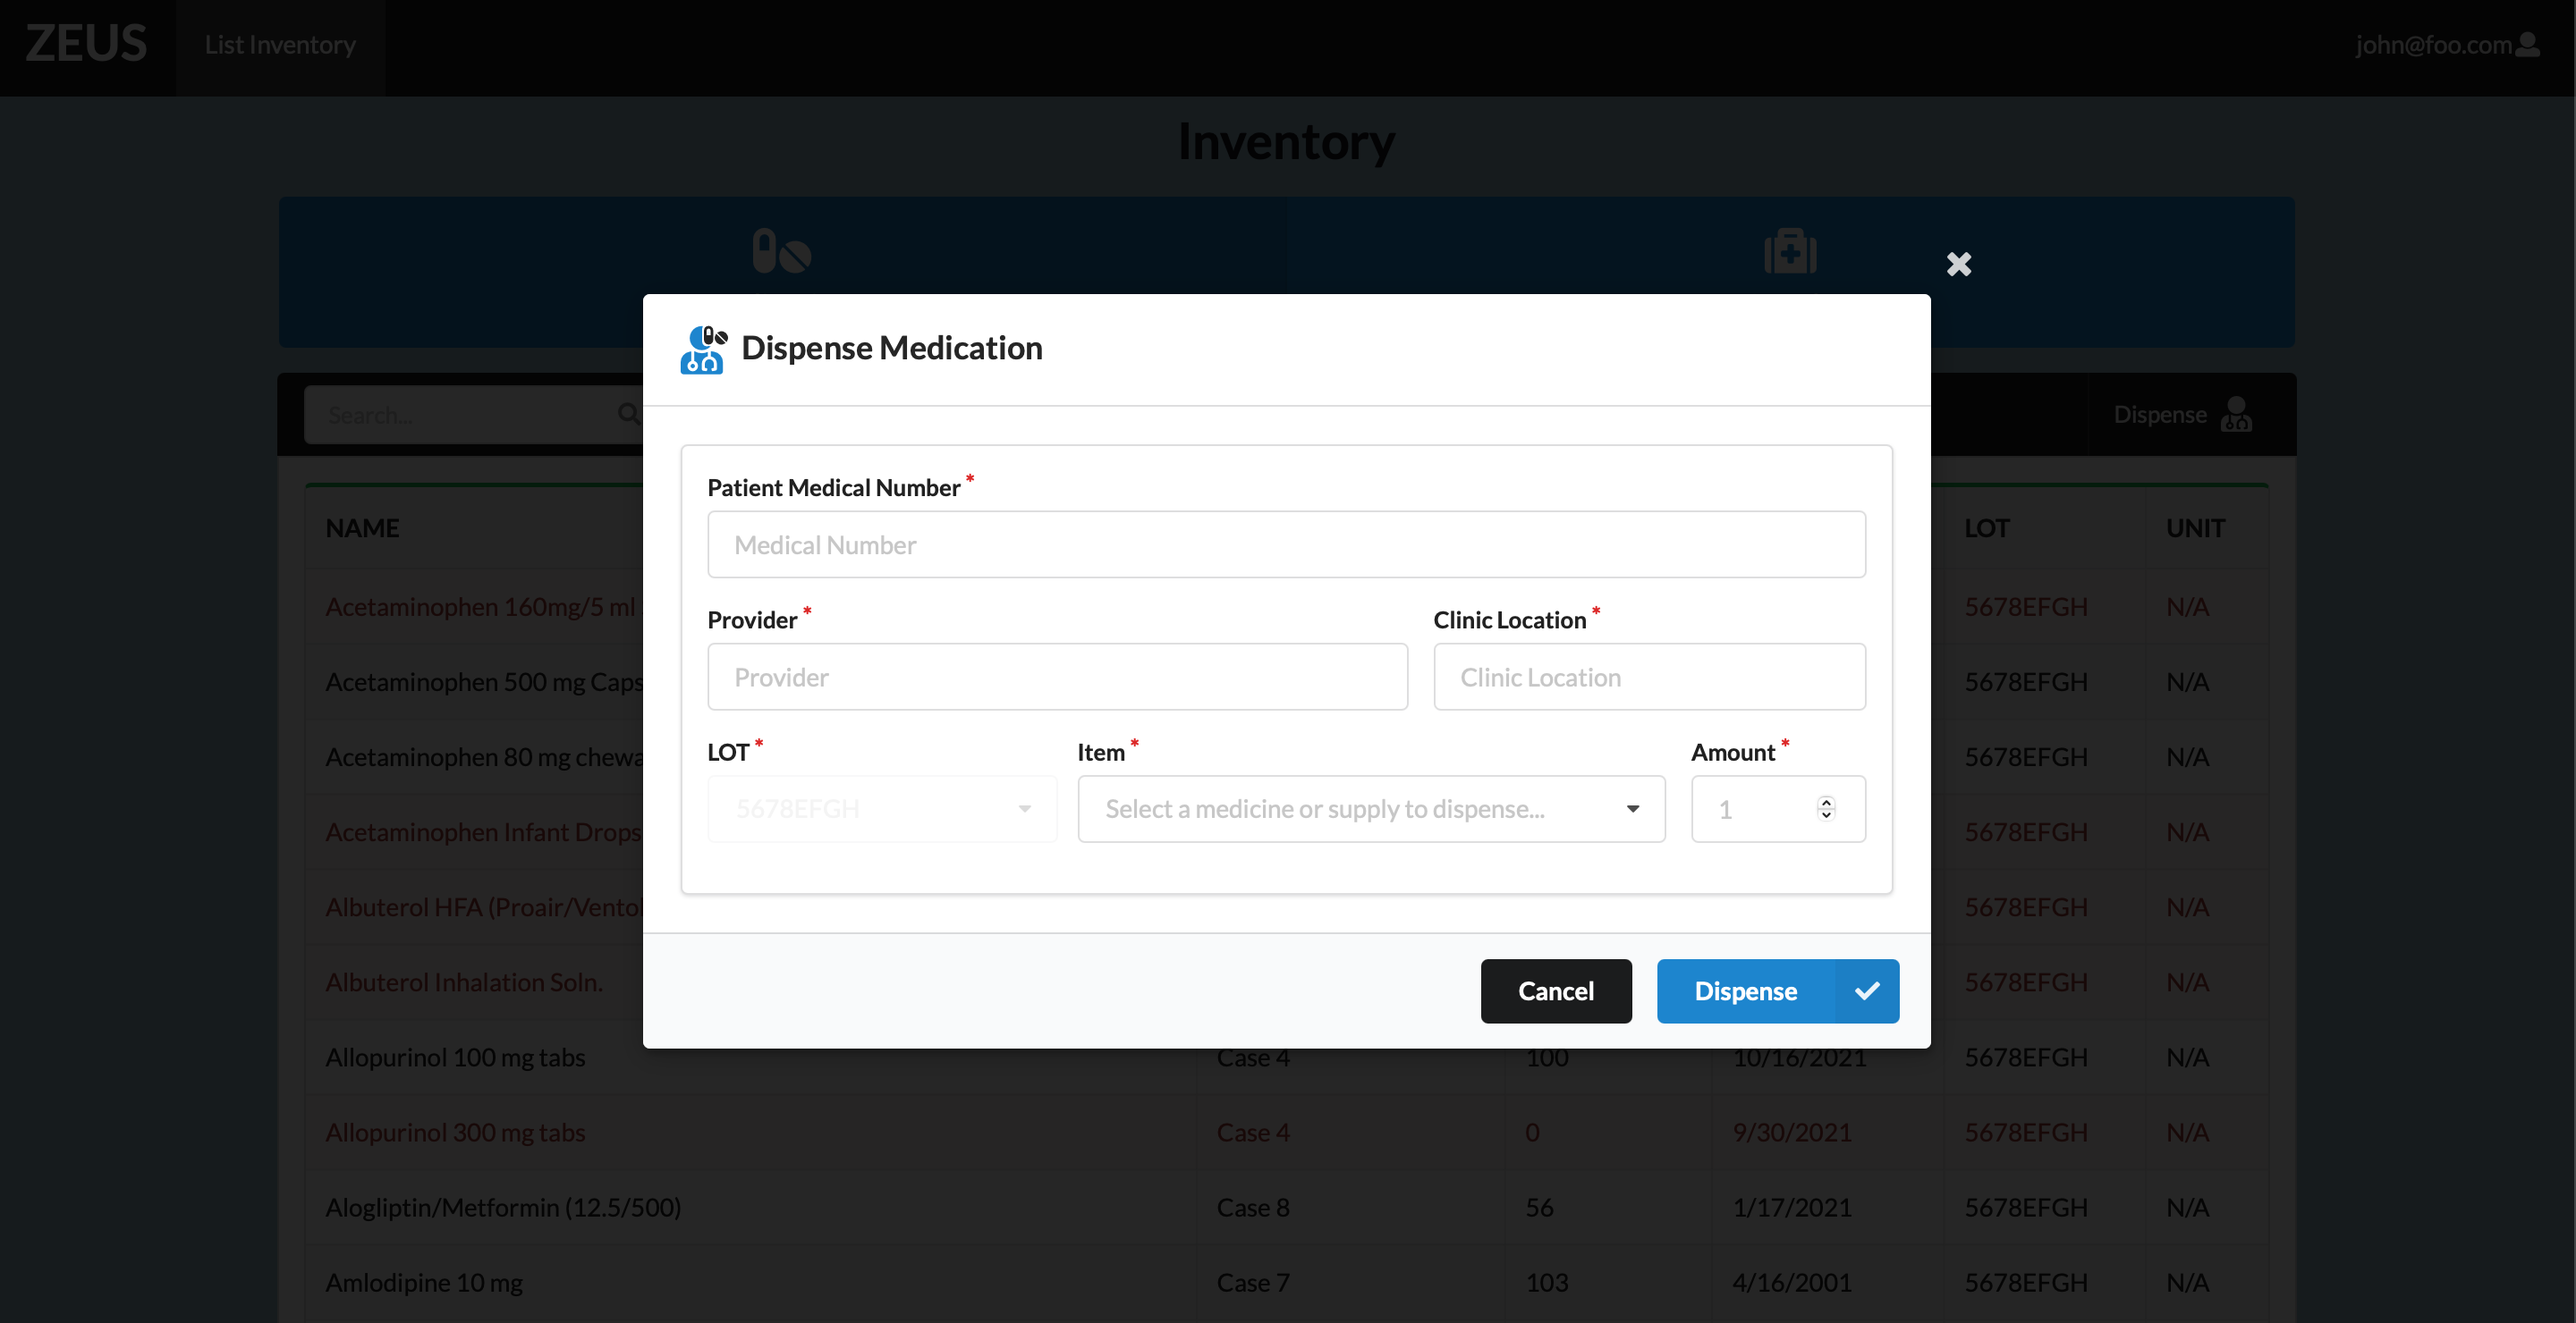
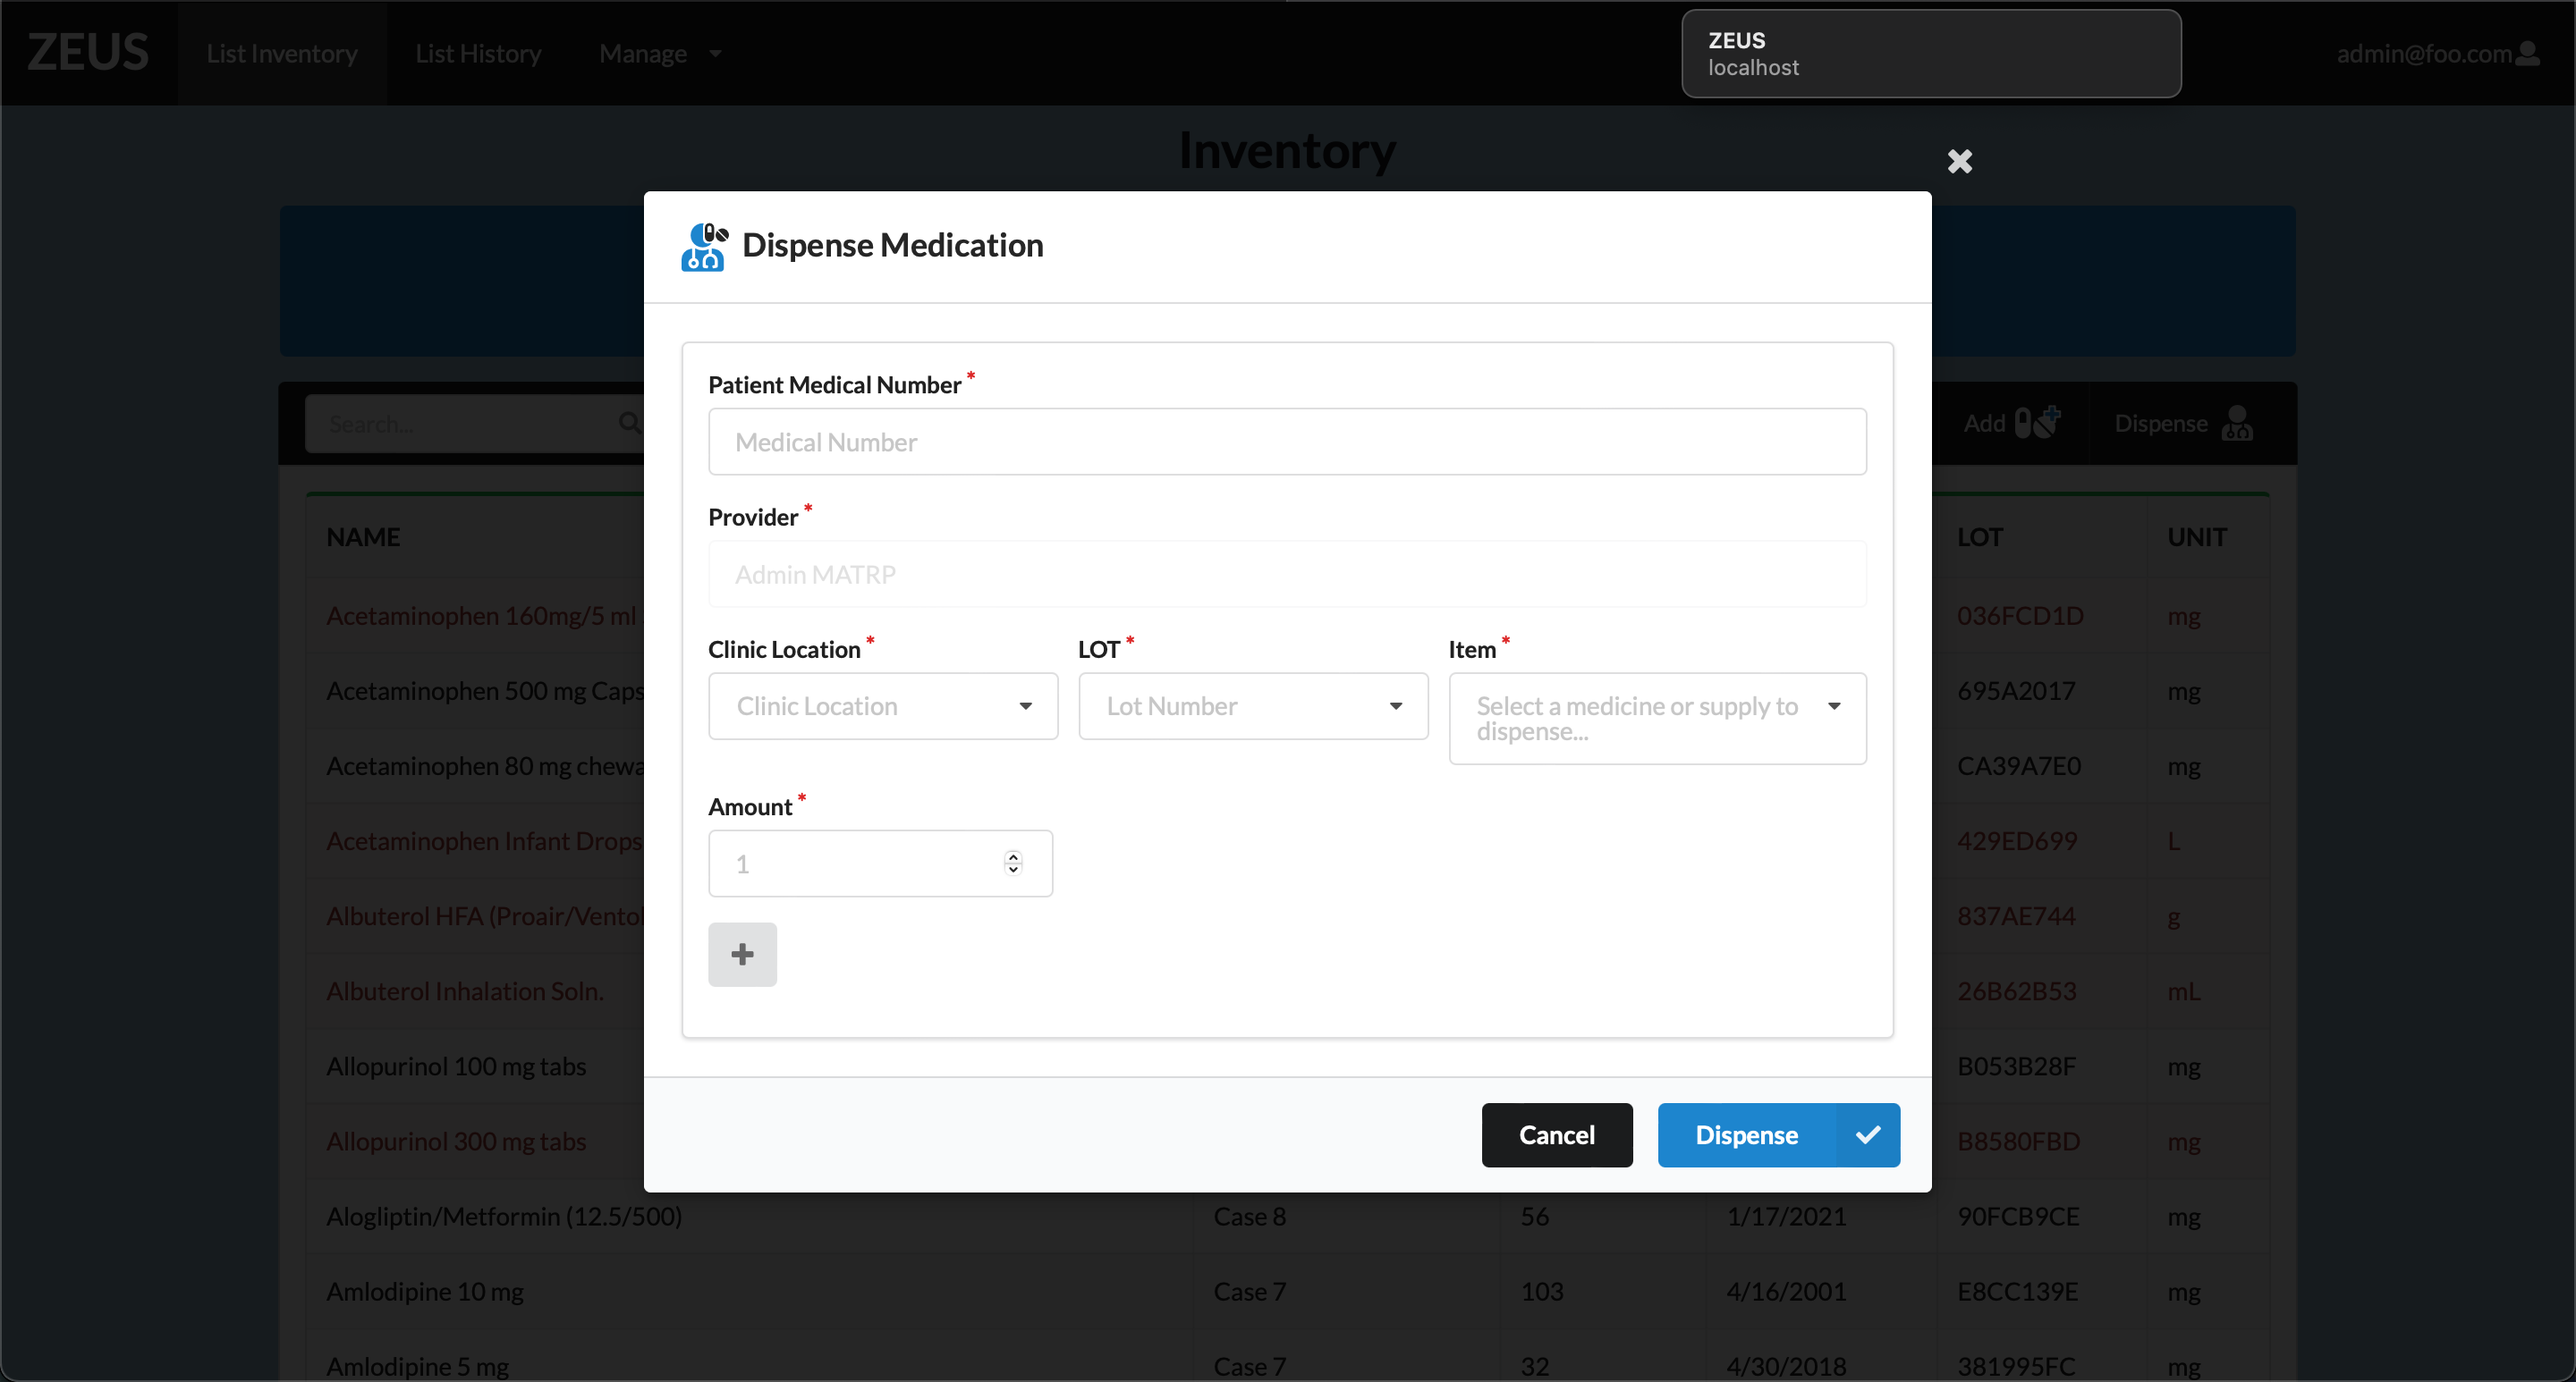
Updates

diff --git a/index.md b/index.md
@@ -11,11 +11,11 @@
 
 ## Overview
 
-Hello and welcome to Zeus! Our project is oriented around creating an online application to help manage the inventory of medical supplies for clinics in Hawai'i. We want to create a simple and easy to use interface so that anyone is capable of using our application. 
+Hello and welcome to ZEUS! Our project is oriented around creating an online application to help manage the inventory of medical supplies for clinics in Hawai'i. We want to create a simple and easy to use interface so that anyone is capable of using our application.
 
 ## Deployment
 
-A live deployment of Zeus is available at [https://github.com/uh-cryptics/zeus](https://github.com/uh-cryptics/zeus). (change this link later when deployment is live)
+A live deployment of Zeus is available at [https://zeus.uhcryptics.xyz/](https://zeus.uhcryptics.xyz/).
 
 ## User Guide
 
@@ -35,7 +35,7 @@ Click on the "Login" button in the middle of the screen, then type in your usern
 
 Alternatively, you can select "Register" to go to the following page and register as a new user:
 
-![](doc/registerPage.png)
+![](doc/sign-up.png)
 
 ### User Home page
 
@@ -61,9 +61,7 @@ You are able to search for items by the name of the medications and supplies. Yo
 
 Users can dispense medication or supplies.
 
-![](doc/dispenseMedication.png)
-
-![](doc/dispenseSupply.png)
+![](doc/dispenseMedication.png) ![](doc/dispenseSupply.png)
 
 ### Admin page
 
@@ -75,13 +73,22 @@ Admin users can edit or delete the inventory information for medication and supp
 
 ![](doc/inventoryInfo_admin.png)
 
-### Add Medication
+### Add Medication & Supply
 
-![](doc/addMed.png)
+This is where you can add a medication or supply to the inventory.
 
-### Add Supply
+![](doc/addMed.png) ![](doc/addSupply.png)
 
-![](doc/addSupply.png)
+### Dispense History Page
+
+History log of medication and or supplies that were dispensed to patients.
+
+### Manage Users
+
+Admin users can view and manage current users in the database, such as changing their roles if needed.
+
+![](doc/manageUsers.png)
+
 
 ## Developer Guide
 
@@ -173,7 +180,12 @@ Milestone 4 was managed using ZEUS Github Project Board M4:
 
 ![](doc/M4.png)
 
-### Milestone 5:
+### Milestone 5: Deployment
+The goal of Milestone 5 was deploying our website to Digital Ocean with its own domain name. Also, we were able to implement a QR code API.
+
+![](doc/M5.png)
+
+### Milestone 6:
 In progress...
 
 ## Team
